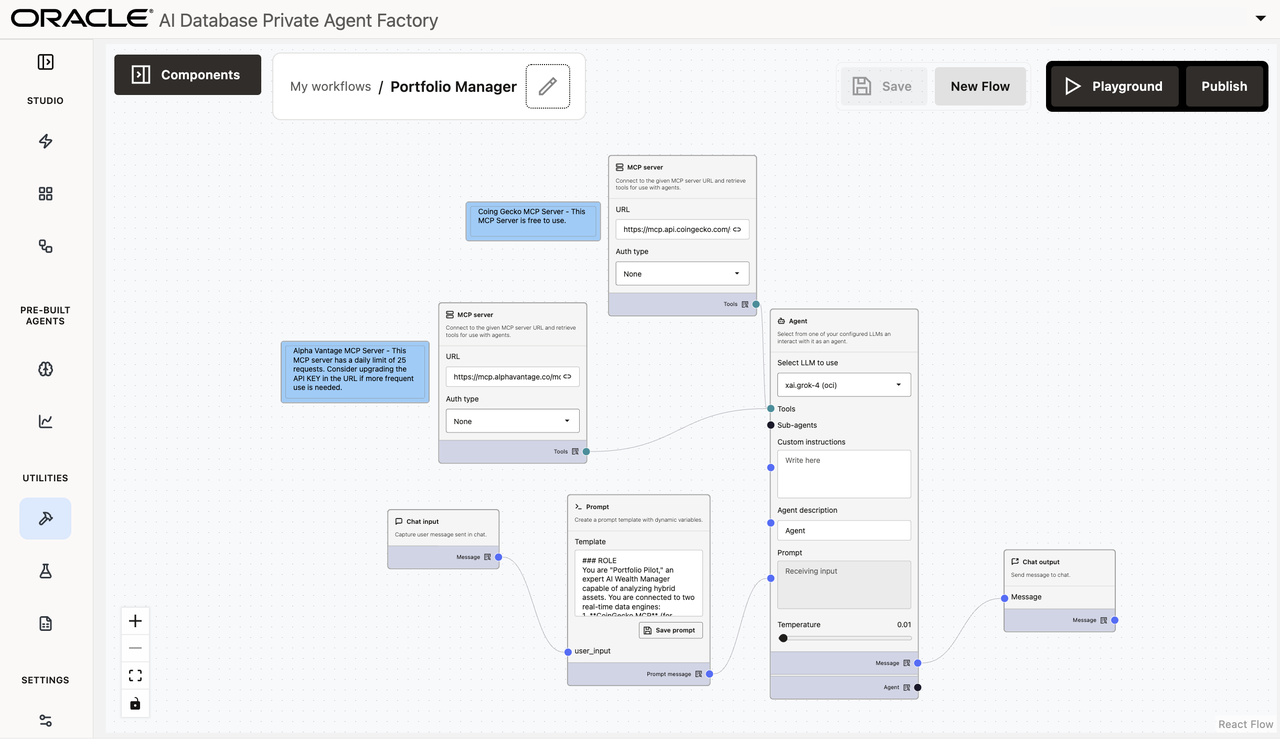
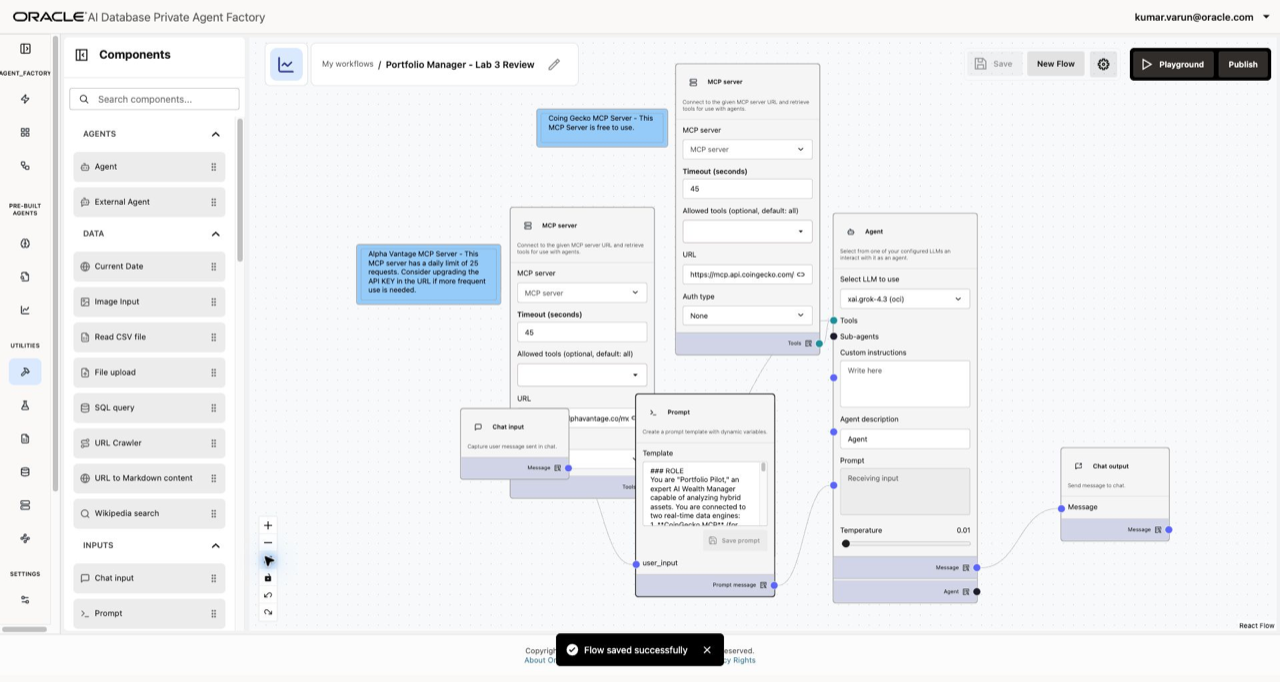
Refresh Lab 3 Market Sync template workflow (#1299)
* Add Private Agent Factory ERP LiveLabs skeleton

(cherry picked from commit e0516f1e1d44dd07bcfa3127aa1a52e0df58ab99)

* Add reusable AIW and appul workshop flows

(cherry picked from commit b451f9b45aec5152f47c20c0435df283586c19ab)

* Replace AIW2026 Lab 1 with Agent Factory overview

(cherry picked from commit 8cb3dd68e44fc34cfc3aabc21f506b68773be982)

* Refresh Lab 2 and add AIW26 bootcamp workshop

(cherry picked from commit 10096e26b7c5b283ac4f34b6f4fc09feea0bc6da)

* Add AppGen MET6099 meetup workshop and structured feedback

(cherry picked from commit 702aa85defc2e0f03f9699701ff842e15d60c5d6)

* Use current LiveLabs CDN in AIW2026 launcher

* Refresh Lab 3 Market Sync template workflow

* Clarify instructor-provided external request example

---------

diff --git a/agent-factory/custom-templates/custom-templates.md b/agent-factory/custom-templates/custom-templates.md
@@ -1,91 +1,144 @@
-# Agents Built from Custom Templates
+# Build an Agent from a Custom Template
 
 ## Introduction
 
-The Agent Factory provides a number of templates to quickly create sophisticated AI Agents with minimal configuration. In this lab, you explore the **Template Gallery** and use the **Market Sync Agent** template to create your own agent. 
+Use the **Market sync agent** template to build a portfolio lookup agent in Oracle AI Database Private Agent Factory. You will inspect its flow, change its prompt, and test how it uses Alpha Vantage for stock prices and CoinGecko for cryptocurrency prices. Publish your flow after verifying its results, then explore how an external application can call it.
 
-**Estimated time:** 10 minutes.
+**Estimated Time:** 20 minutes
 
 ### Objectives
 
 By the end of this lab, you will be able to:
 
-- Import agents from the Template Gallery 
-- Customize the **Market Sync Agent** template from the visual Agent Builder
+- Import and name a flow from the Template Gallery.
+- Explain how the chat, prompt, agent, and MCP server nodes work together.
+- Customize the prompt and compare the results in Playground.
+- Verify tool results and calculations before publishing.
+- Locate the endpoint URL and explain API-key access for a published flow.
 
 ### Prerequisites
 
-* an LLM configuration (grok-4 through OCI Gen AI is recommended)
-* an internet connection open from your Agent Factory for MCP (either a NAT Gateway or Internet Gateway)
+- Access to the workshop Private Agent Factory instance using the credentials provided by your instructor.
+- Permission to create, edit, and publish your own custom flows.
+- An instructor-provided language model and working Alpha Vantage and CoinGecko MCP connections. The workshop administrator prepares network access and any required tool credentials.
 
-## Task 1: Explore templates in the Agent Factory Template Gallery
+## Task 1: Import and name the template
 
-Navigate to the **Template gallery** tab on the left-hand side.
+1. In the left navigation menu, open **Template Gallery**. Enter `Market sync` in **Search templates...**.
 
-## Task 2: Import Template
+    ![Template Gallery filtered to the Market sync agent template](images/template-ms.png)
 
-Find the template named **Market Sync Agent** and import it.
+2. On the **Market sync agent** card, click **Import flow**. Agent Builder opens with a copy of the template.
 
-![Market Sync Agent template from Template gallery page](images/template-ms.png)
+3. Click the **Edit** pencil beside the flow name. Enter a name such as `Portfolio Manager - <your-user-id>` and a short description. Click **Save changes**. Use your assigned user ID so your flow is easy to identify in a shared instance.
 
-## Task 3: Understand Agent Builder Interface 
+## Task 2: Inspect the flow and select the workshop model
 
-After clicking **Import flow**, you will be taken to the Agent Builder. Here you will see a pre-configured set of boxes and wires.
+1. Collapse the application sidebar and the **Components** sidebar to make room for the canvas. Click **fit view** in the canvas controls to see the flow.
 
-> Note: Collapse the left-hand menu and Components menu by clicking the icon at the top.
+    ![Imported Market sync flow with chat nodes, prompt, agent, and two MCP servers](images/template-ms-imported.png)
 
-![Market Sync Agent template from Agent Builder page](images/template-ms-imported.png)
+2. Follow the connections from **Chat input** to **Prompt**, then to **Agent** and **Chat output**. The two **MCP server** nodes connect to the agent's **Tools** input.
 
-## Task 4: Configure your Agent in Agent Builder
+    | Node | Role in this flow |
+    | --- | --- |
+    | Chat input | Receives the message entered in Playground. |
+    | Prompt | Combines instructions with the `{{user_input}}` variable. |
+    | Agent | Uses the selected language model and calls tools to answer the request. |
+    | MCP server: Alpha Vantage | Supplies tools for stock and other market data. |
+    | MCP server: CoinGecko | Supplies tools for cryptocurrency data. |
+    | Chat output | Returns the agent's response to the chat. |
+    | Sticky notes | Explain the template; they do not execute. |
 
-This task will walk through each box and explain how it's contributing to the agentic flow.
+3. In the **Agent** node, check **Select LLM to use**. Select the model specified by your instructor. The imported template may select `xai.grok-4.3 (oci)`; available names and models depend on the instance.
 
-**Chat input**: (far left) This box informs the agent that it needs to await a user query from a chat interface. The output of this cell will be whatever the user writes into the chat box.
+4. Inspect the MCP server nodes and their notes. Keep the instructor-provided connections and credentials. If a model or tool connection is missing, ask the instructor to check the shared resource. Click **Save** in the toolbar if your changes enable it.
 
-**Sticky Notes**: (top left, blue) These boxes are simply for reference, and do not contribute to the agentic flow in any way. Sticky Notes are used for agent builders to leave notes for each other.
+## Task 3: Establish a baseline and customize the prompt
 
-**MCP Servers**: (top left) These boxes are "tools" for agents to call. MCP Servers are a way for agent-compatible systems to interact with agents. In this example we have "alphavantage" and "coingecko" providing real-time pricing data through MCP. Agent nodes will know how to call these MCP Servers to get relevant information.
+1. Click **Playground** and try this stock question:
 
-**Prompt**: (bottom left) This box adds extra context to the user's query to provide better responses. In this case, the prompt is explaining to the agent that it is advising the user on their portfolio, and provides guidance on how it should format responses to the user.
+    ```text
+    <copy>
+    For a demo portfolio, I have 10 shares of NVDA. Use the stock pricing tool to report the price in USD, its source and timestamp, and the value of the holding.
+    </copy>
+    ```
 
-> Note: Prompts accept incoming text by adding a keyword in double brackets. As an example, the *`{{user_input}}`* text is given in this prompt which create the *user_input* node on the left of the prompt.
+2. Note the response format and whether the answer identifies a returned price or an estimate. Use the back arrow at the top of the chat to return to Agent Builder.
 
-**Agent** (middle) This box does a lot of the heavy lifting:
- * selects the LLM to use (grok-4 is recommended for this lab)
- * allows for 0 or more tools
- * allows for 0 or more sub-agents
- * receives custom instructions
- * receives the prompt
- * provides an output
+3. In the **Prompt** node's **Template** field, find the **EXCEPTION HANDLING** instructions. Replace the instruction that allows estimated values after a tool failure with:
 
-**Chat output**: (far right) Similar to chat input, the chat output node instructs the agentic flow to return a given text to the user through the chatbot.
+    ```text
+    <copy>
+    If a tool fails, report which price is unavailable. Do not estimate it or include it in the portfolio total.
+    </copy>
+    ```
 
+4. Add the following instructions to the template. Keep the existing `User Query: {{user_input}}` text and the `user_input` connection.
 
-## Task 5: Test Agent in Playground and Publish
+    ```text
+    <copy>
+    ### WORKSHOP RESPONSE FORMAT
+    Return a table with Asset, Quantity, Price (USD), Price source, Price timestamp, and Holding value (USD).
+    Use only prices returned by the tools. If a price lookup fails, mark the price and holding value as unavailable and exclude that asset from the total.
+    Label the total as partial when any lookup fails. Do not invent prices or timestamps.
+    Include one brief sentence naming the tools used.
+    </copy>
+    ```
 
-Before testing the agentic flow, rename it to something more memorable, for example "Portfolio Manager". Add a helpful description for later.
+5. Click **Save prompt** on the node, then **Save** in the toolbar. The prompt controls the response format and failure handling; the MCP connections still supply the pricing tools.
 
-Then click **Playground**.
+## Task 4: Test both tool paths and verify the results
 
-Now ask a question about your portfolio, for example: "I have 10 shares of NVDA, how much is my portfolio worth today?"
+1. Open **Playground** again and click **New chat**. Repeat the stock question from Task 3. Compare its response with your baseline: it should now use the requested columns and avoid estimated prices when a lookup fails.
 
-![Market Sync Agent template from Agent Builder page](images/template-ms-portfolio.png)
+2. Start another **New chat** and test the cryptocurrency path:
 
+    ```text
+    <copy>
+    For a demo portfolio, I have 0.01 BTC. Use the cryptocurrency pricing tool to report the price in USD, its source and timestamp, and the value of the holding.
+    </copy>
+    ```
 
-## Task 6: Talk to your production agent
+3. Review each answer against the returned tool data. Expand tool output or execution details when available; ask the instructor to show the execution trace if the chat does not expose it. An answer naming a tool is not proof that the tool ran successfully.
 
-Click **Go back to builder** in the top right. Then click **Publish** and **Confirm**.
+    - The stock lookup should use Alpha Vantage, and the cryptocurrency lookup should use CoinGecko.
+    - Check the asset, currency, returned price, and available price timestamp. A stock quote may reflect a previous market close. If the tool does not supply a timestamp, the answer should say it is unavailable.
+    - Verify `holding value = quantity × returned price`: multiply the NVDA price by 10 and the BTC price by 0.01.
+    - A failed lookup should show an unavailable price and holding value. If some lookups succeed, any total must be labeled partial.
 
-Now the Agent is published and is accessible via REST. To copy the REST endpoint, click **Playground** and then **Copy agent URL**.
+4. If a lookup fails or the service returns a rate limit, check the error with the instructor before retrying. Shared tool credentials can have request limits. Do not repeatedly submit the same question or treat an estimated answer as a successful lookup.
 
-You may now **proceed to the next lab**
+5. If Playground stays at **Loading chat** or has no usable message input, reopen your flow from **My Custom Flows** using **Run flow** once. If the problem continues, ask the instructor to check the environment. Resume testing after it is resolved; publish only after both tool paths and the calculations are verified.
+
+## Task 5: Publish the verified flow
+
+1. Use the back arrow to return to Agent Builder. If you opened the chat through **Run flow** and return to **My Custom Flows** instead, click **Edit** on your flow. Save any remaining changes.
+
+2. Click **Publish**, review the **Publish Workflow** dialog, and click **Confirm** after completing the verification in Task 4.
+
+3. Open **My Custom Flows**, locate your named flow, and use **Run flow** to open it. Check that the saved prompt changes are still reflected in its responses.
+
+## Task 6: Explore external access to the published flow
+
+1. In the chat window, open **Integration options** and select **Endpoint URL**. Use its copy button to copy the endpoint for your own published flow.
+
+    ![Playground Integration options showing Endpoint URL and the API-key requirement](images/template-ms-integration.png)
+
+2. Review the text below the endpoint. External requests use `POST` and require an API key in the `Authorization: Bearer` header. Publication and authentication are both required for external execution.
+
+3. Only administrators can create and manage API keys. Administrators see the **API Key** and **Sample Code** tabs; workshop participants may not see those tabs. For an optional external test, use the key and request example provided by your instructor for your specific flow. Keep the key out of screenshots and workshop files.
+
+4. If no key is provided, finish this task by identifying the endpoint and explaining the publication and authentication requirements. See [Agent Builder: Publish and Chat With Your Agents Outside the Application](https://docs.oracle.com/en/database/oracle/agent-factory/26.7/paias/agent-builder.html) for details.
+
+    You may now **proceed to the next lab**.
 
 ## Acknowledgements
 
-**Authors** 
+**Authors**
 
-* Database Applied AI Technical Staff
-* Allen Hosler, Principal Product Manager, Database Applied AI
-* Kumar Varun, Senior Principal Product Manager, Database Applied AI
+- Database Applied AI Technical Staff
+- Allen Hosler, Principal Product Manager, Database Applied AI
+- Kumar G. Varun, Lead PM, Oracle Database Applied AI
 
-**Last Updated Date** - February, 2026
+**Last Updated Date** - October 2026
